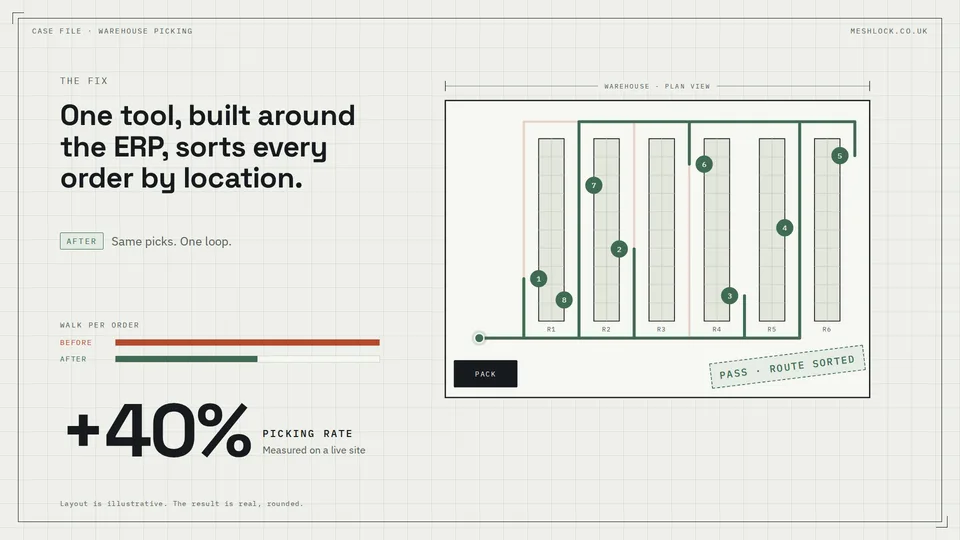
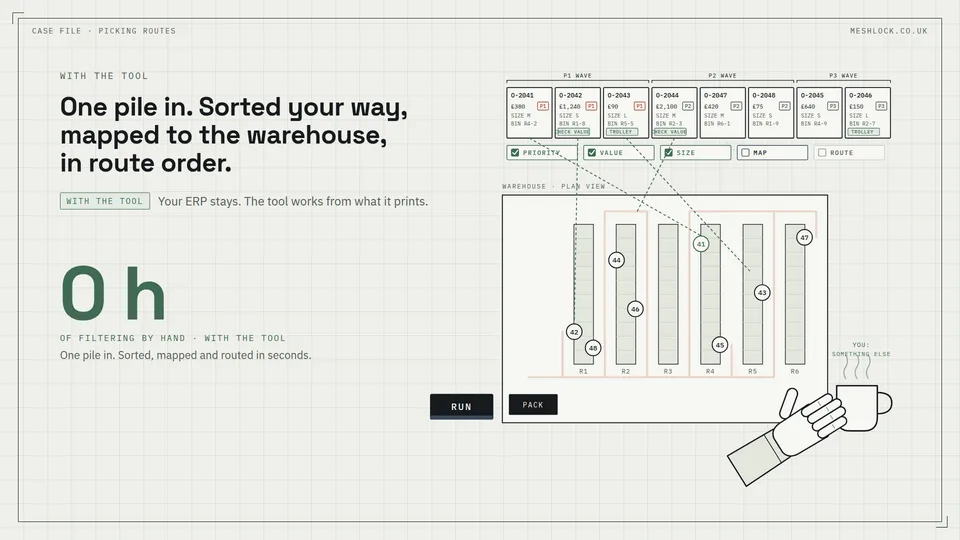
Five before/after animations on /tools, new tiles and thumbs, breadcrumbs and offer links on every page
Claude-Session: https://claude.ai/code/session_01HfdSBWSTx8RcmJzqoEAGrT

diff --git a/tools/index.html b/tools/index.html
@@ -5,12 +5,12 @@
 <meta name="viewport" content="width=device-width, initial-scale=1.0">
 <meta name="color-scheme" content="light">
 <title>Tools in action | Meshlock</title>
-<meta name="description" content="Four real fixes for manufacturers, shown as they run: job travellers, cut file checks, machine run data and picking routes. Built around the ERP you already have.">
+<meta name="description" content="Five real fixes for manufacturers, shown as they run: job orders, picking routes, cut file checks, machine data and batch export. Built around the ERP you already have.">
 <link rel="canonical" href="https://meshlock.co.uk/tools/">
 <meta property="og:type" content="website">
 <meta property="og:site_name" content="Meshlock">
 <meta property="og:title" content="Tools in action | Meshlock">
-<meta property="og:description" content="Four real fixes for manufacturers, shown as they run: job travellers, cut file checks, machine run data and picking routes. Built around the ERP you already have.">
+<meta property="og:description" content="Five real fixes for manufacturers, shown as they run: job orders, picking routes, cut file checks, machine data and batch export. Built around the ERP you already have.">
 <meta property="og:url" content="https://meshlock.co.uk/tools/">
 <meta property="og:image" content="https://meshlock.co.uk/assets/og-image.png?v=2">
 <meta property="og:image:width" content="1200">
@@ -41,9 +41,9 @@
 
 <section class="page-head">
   <div class="wrap">
-    <p class="label">Tools in action</p>
-    <h1>Four fixes, shown as they run.</h1>
-    <p>Each one is a real tool, built around an existing ERP and tested on real production data. Parts, orders and machines on screen are illustrative. The results are real, rounded.</p>
+    <p class="label crumbs"><a href="/">Meshlock</a> / Tools in action</p>
+    <h1>Five fixes, shown as they run.</h1>
+    <p>Each one is a real tool, built around an existing ERP and tested on real production data. First the job by hand, then the same job with the tool. Parts, orders and machines on screen are illustrative. The results are real, rounded.</p>
   </div>
 </section>
 
@@ -51,9 +51,9 @@
   <div class="wrap">
     <p class="label">Around your ERP</p>
     <h2>Built around your ERP, not instead of it.</h2>
-    <p class="erp-text">Works orders came off the ERP unsorted, with no carrier details and no picture of the part. Tools built around it now put despatch paperwork in exact picking order, keep multi-sheet orders together, stamp the right courier and print a preview of the correct part on every sheet. The ERP provider's own consultants couldn't match it.</p>
+    <p class="erp-text">Job orders and picking orders came off the ERP in one unsorted pile, with no courier and no picture of the part. Tools built around it now sort and group the job orders, stamp the courier, print a preview of the part and put picking orders in route order. The ERP provider's own consultants couldn't match it.</p>
     <div class="stats">
-      <div class="stat"><p class="stat-num">12 h</p><p>a week saved at peak, sorting despatch paperwork</p></div>
+      <div class="stat"><p class="stat-num">12 h</p><p>a week saved at peak, filtering and reprinting picking orders</p></div>
       <div class="stat"><p class="stat-num">5×</p><p>faster matching products to shipping slips</p></div>
       <div class="stat"><p class="stat-num">0</p><p>changes to your ERP. No new licences, nothing to break at upgrade time</p></div>
     </div>
@@ -63,61 +63,81 @@
 <section class="tool-case" id="job-travellers">
   <div class="wrap">
     <div class="tc-head">
-      <div><p class="label">Around the ERP</p><h2>Job travellers, sorted in a minute</h2></div>
+      <div><p class="label">Around the ERP</p><h2>Job orders, sorted in a minute</h2></div>
       <p class="tc-result">1 h → 1 min</p>
     </div>
-    <div class="tc-frame"><iframe src="/assets/anim/job-travellers.html?embed=1" title="Job travellers, animation" loading="lazy"></iframe><a class="tc-full" href="/assets/anim/job-travellers.html" target="_blank" rel="noopener">⤢ Full screen</a></div>
+    <div class="tc-frame"><iframe src="/assets/anim/job-travellers.html?embed=1" title="Job orders, animation" loading="lazy"></iframe><a class="tc-full" href="/assets/anim/job-travellers.html" target="_blank" rel="noopener">⤢ Full screen</a></div>
     <div class="tc-fields">
-      <div class="field"><b>Challenge</b><p>Job travellers came off the ERP as one long, unsorted print. Someone spent about an hour a day sorting multi-page orders by hand.</p></div>
-      <div class="field"><b>Approach</b><p>A tool that sorts sheets by priority and order, adds a separator with the sheet count, stamps the courier and prints a preview of the part from its cut code.</p></div>
+      <div class="field"><b>Challenge</b><p>About 80 sheets for 60 job orders came off the ERP as one mixed print. Someone spent about an hour a day sorting them, clipping multi-page orders together and writing on the courier.</p></div>
+      <div class="field"><b>Approach</b><p>A tool that sorts the sheets, groups multi-page orders, adds a separator with the sheet count, stamps the courier and prints a preview of the part. It also collects the order data and drafts a short message for the shift team with the day's priorities.</p></div>
       <div class="field"><b>Outcome</b><p>About an hour of daily sorting now takes about a minute.</p></div>
     </div>
     <p class="tc-price">A tool like this: <b>about £1,000</b>. Every quote is built around your own workflow. <a href="/prices/">How prices work →</a></p>
-  </div>
-</section>
-<section class="tool-case" id="dxf-check">
-  <div class="wrap">
-    <div class="tc-head">
-      <div><p class="label">Quality & error-proofing</p><h2>Pre-production quality gate</h2></div>
-      <p class="tc-result">Up to 10% of machine capacity freed</p>
-    </div>
-    <div class="tc-frame"><iframe src="/assets/anim/dxf-check.html?embed=1" title="Pre-production quality gate, animation" loading="lazy"></iframe><a class="tc-full" href="/assets/anim/dxf-check.html" target="_blank" rel="noopener">⤢ Full screen</a></div>
-    <div class="tc-fields">
-      <div class="field"><b>Challenge</b><p>Design files reached the floor with no automated check. Errors caught only after material and time were spent.</p></div>
-      <div class="field"><b>Approach</b><p>A digital check on every cut file before it reaches a machine: orientation, position on the bed, open contours, piece count against the paperwork, and a predicted cut time.</p></div>
-      <div class="field"><b>Outcome</b><p>Physical test-cutting eliminated for validated files. Defects caught at the design stage, not by a customer.</p></div>
-    </div>
-    <p class="tc-price">A tool like this: <b>about £1,700</b>. Every quote is built around your own workflow. <a href="/prices/">How prices work →</a></p>
-  </div>
-</section>
-<section class="tool-case" id="machine-data">
-  <div class="wrap">
-    <div class="tc-head">
-      <div><p class="label">Data & reporting</p><h2>Machine run data and the cut time model</h2></div>
-      <p class="tc-result">3 years of logs, now live data</p>
-    </div>
-    <div class="tc-frame"><iframe src="/assets/anim/machine-data.html?embed=1" title="Machine run data, animation" loading="lazy"></iframe><a class="tc-full" href="/assets/anim/machine-data.html" target="_blank" rel="noopener">⤢ Full screen</a></div>
-    <div class="tc-fields">
-      <div class="field"><b>Challenge</b><p>Machine logs held years of run data nobody could read. Time estimates relied on manual test-runs and rough averages.</p></div>
-      <div class="field"><b>Approach</b><p>Three years of raw machine logs cleaned and matched to jobs, with every start and stop tracked to the second. A predictive model built on that history estimates cut time for new designs.</p></div>
-      <div class="field"><b>Outcome</b><p>Every stop is visible and can be followed up. Faster, more consistent estimates feed straight into planning.</p></div>
-    </div>
-    <p class="tc-price">A tool like this: <b>about £3,150</b>. Every quote is built around your own workflow. <a href="/prices/">How prices work →</a></p>
+    <p class="tc-offer"><a href="/start/#f=sort,courier">Same pile on your desk? Put your numbers on it →</a></p>
   </div>
 </section>
 <section class="tool-case" id="picking-route">
   <div class="wrap">
     <div class="tc-head">
-      <div><p class="label">Around the ERP</p><h2>Smarter picking</h2></div>
+      <div><p class="label">Around the ERP</p><h2>Picking routes</h2></div>
       <p class="tc-result">+40% picking rate</p>
     </div>
-    <div class="tc-frame"><iframe src="/assets/anim/picking-route.html?embed=1" title="Smarter picking, animation" loading="lazy"></iframe><a class="tc-full" href="/assets/anim/picking-route.html" target="_blank" rel="noopener">⤢ Full screen</a></div>
+    <div class="tc-frame"><iframe src="/assets/anim/picking-route.html?embed=1" title="Picking routes, animation" loading="lazy"></iframe><a class="tc-full" href="/assets/anim/picking-route.html" target="_blank" rel="noopener">⤢ Full screen</a></div>
     <div class="tc-fields">
-      <div class="field"><b>Challenge</b><p>Pickers walked the warehouse in whatever order the paperwork came out.</p></div>
-      <div class="field"><b>Approach</b><p>A tool that maps efficient routes and sequences orders to match.</p></div>
-      <div class="field"><b>Outcome</b><p>Picking rate up by about 40%.</p></div>
+      <div class="field"><b>Challenge</b><p>The ERP printed picking orders as one pile, in print order, and pickers walked the warehouse back and forth. At peak, someone filtered and reprinted them by hand, aisle by aisle or by value: up to 12 hours a week.</p></div>
+      <div class="field"><b>Approach</b><p>One pile goes in. The tool sorts it the way you choose, by priority, value or size, maps every order to its location in the warehouse and puts them in route order. One loop instead of back and forth.</p></div>
+      <div class="field"><b>Outcome</b><p>Picking rate up by about 40%. The filtering and reprinting by hand stopped.</p></div>
     </div>
     <p class="tc-price">A tool like this: <b>about £2,250</b>. Every quote is built around your own workflow. <a href="/prices/">How prices work →</a></p>
+    <p class="tc-offer"><a href="/start/#f=pick">Pickers walking the long way? Put your numbers on it →</a></p>
+  </div>
+</section>
+<section class="tool-case" id="dxf-check">
+  <div class="wrap">
+    <div class="tc-head">
+      <div><p class="label">Quality & error-proofing</p><h2>Cut file check: a digital quality gate</h2></div>
+      <p class="tc-result">Up to 10% of machine capacity freed</p>
+    </div>
+    <div class="tc-frame"><iframe src="/assets/anim/dxf-check.html?embed=1" title="Cut file check, animation" loading="lazy"></iframe><a class="tc-full" href="/assets/anim/dxf-check.html" target="_blank" rel="noopener">⤢ Full screen</a></div>
+    <div class="tc-fields">
+      <div class="field"><b>Challenge</b><p>New designs went to the machine to find out if they were right. Test cut, count the parts by hand, find the error, bin the sheet, fix it, repeat. About an hour on every new design.</p></div>
+      <div class="field"><b>Approach</b><p>A digital quality gate, built from scratch. Every file is checked on screen before the first cut: orientation, position, gaps in cut paths, processing settings, part count against the paperwork and part ID. Each issue is marked on the drawing and fixed in the file before it reaches a machine.</p></div>
+      <div class="field"><b>Outcome</b><p>Errors caught on screen, not in the bin. About an hour saved on every new design, and up to 10% of machine capacity freed.</p></div>
+    </div>
+    <p class="tc-price">A tool like this: <b>about £1,700</b>. Every quote is built around your own workflow. <a href="/prices/">How prices work →</a></p>
+    <p class="tc-offer"><a href="/start/#f=wrong">Errors found after the cut? Put your numbers on it →</a></p>
+  </div>
+</section>
+<section class="tool-case" id="machine-data">
+  <div class="wrap">
+    <div class="tc-head">
+      <div><p class="label">Data & reporting</p><h2>Machine data: downtime you can see</h2></div>
+      <p class="tc-result">80% → 91%</p>
+    </div>
+    <div class="tc-frame"><iframe src="/assets/anim/machine-data.html?embed=1" title="Machine data, animation" loading="lazy"></iframe><a class="tc-full" href="/assets/anim/machine-data.html" target="_blank" rel="noopener">⤢ Full screen</a></div>
+    <div class="tc-fields">
+      <div class="field"><b>Challenge</b><p>The machines ran all day and nobody knew how well. Every stop was in the logs, but nobody could see it. Daily performance was a guess.</p></div>
+      <div class="field"><b>Approach</b><p>Machine logs pulled automatically, with every start and stop tracked to the second and shown per machine. With the downtime visible, the causes were found, the process changed and operators were trained on the real data.</p></div>
+      <div class="field"><b>Outcome</b><p>Average machine performance up from 80% on the first measured day to 91%. Same machines, same people.</p></div>
+    </div>
+    <p class="tc-price">A tool like this: <b>about £1,700</b>. Every quote is built around your own workflow. <a href="/prices/">How prices work →</a></p>
+    <p class="tc-offer"><a href="/start/#f=reports">Data in the system, but no clear picture? Put your numbers on it →</a></p>
+  </div>
+</section>
+<section class="tool-case" id="batch-export">
+  <div class="wrap">
+    <div class="tc-head">
+      <div><p class="label">Automation</p><h2>Batch export</h2></div>
+      <p class="tc-result">0 files opened by hand</p>
+    </div>
+    <div class="tc-frame"><iframe src="/assets/anim/batch-export.html?embed=1" title="Batch export, animation" loading="lazy"></iframe><a class="tc-full" href="/assets/anim/batch-export.html" target="_blank" rel="noopener">⤢ Full screen</a></div>
+    <div class="tc-fields">
+      <div class="field"><b>Challenge</b><p>Design files were opened and exported to PDF one at a time. Open, export, pick the preset, name it, save, close, next. One wrong click meant one bad PDF.</p></div>
+      <div class="field"><b>Approach</b><p>A small Adobe script. Pick the folders, set the preset once and press Run. Every file is exported with the same settings and listed in a log.</p></div>
+      <div class="field"><b>Outcome</b><p>Whole folders exported while you do something else. No skipped files, no wrong presets.</p></div>
+    </div>
+    <p class="tc-price">A tool like this: <b>about £500</b>. Every quote is built around your own workflow. <a href="/prices/">How prices work →</a></p>
+    <p class="tc-offer"><a href="/start/#f=export">Exporting files one by one? Put your numbers on it →</a></p>
   </div>
 </section>
 
@@ -150,8 +170,8 @@
 <section class="cta-band">
   <div class="wrap">
     <h2>Something on your floor that everyone just accepts?</h2>
-    <p>A free 30-minute call. Tell me what feels slow, and I'll tell you honestly whether a tool would fix it.</p>
-    <div class="ctas"><a class="btn-primary" href="/#contact">Book a free call</a><a class="btn-ghost" href="/prices/">See prices</a></div>
+    <p>A free 30-minute call. Tell me what feels slow, and I'll tell you honestly whether a tool would fix it. Or tick what happens on your floor and get a one-page offer in about 90 seconds.</p>
+    <div class="ctas"><a class="btn-primary" href="/#contact">Book a free call</a><a class="btn-ghost" href="/start/">Get a one-page offer</a></div>
   </div>
 </section>
 <script>
@@ -173,6 +193,7 @@
   <ul class="foot-links">
     <li><a href="/tools/">Tools in action</a></li>
     <li><a href="/prices/">Prices</a></li>
+    <li><a href="/start/">One-page offer</a></li>
     <li><a href="/notes/">Field notes</a></li>
     <li><a href="https://www.linkedin.com/in/kamil-pojawa-106265305/" target="_blank" rel="noopener">LinkedIn</a></li>
     <li><a href="mailto:hello@meshlock.co.uk">hello@meshlock.co.uk</a></li>

diff --git a/index.html b/index.html
@@ -570,26 +570,26 @@
       <div class="sec-head">
         <p class="label">Tools in action</p>
         <h2>See the fixes run</h2>
-        <p>Four real fixes, about 25 seconds each. Layouts are illustrative, the results are real.</p>
+        <p>Four real fixes, first by hand, then with the tool. About half a minute each. Layouts are illustrative, the results are real.</p>
       </div>
-      <a class="text-link" href="/tools/">All case files →</a>
+      <a class="text-link" href="/tools/">All five, with the details →</a>
     </div>
     <div class="tool-grid">
-      <a class="tool-tile watch" href="/assets/anim/picking-route.html" data-title="Smarter picking">
-        <img src="/assets/anim/thumbs/picking-route.webp" alt="" width="960" height="540" loading="lazy">
-        <span class="tt-body"><span class="tt-num">+40%</span><span class="tt-name">Picking rate, with orders sorted by location</span><span class="tt-play">▶ SEE IT RUN</span></span>
-      </a>
-      <a class="tool-tile watch" href="/assets/anim/job-travellers.html" data-title="Job travellers, sorted in a minute">
+      <a class="tool-tile watch" href="/assets/anim/job-travellers.html" data-title="Job orders, sorted in a minute">
         <img src="/assets/anim/thumbs/job-travellers.webp" alt="" width="960" height="540" loading="lazy">
-        <span class="tt-body"><span class="tt-num">1 h → 1 min</span><span class="tt-name">Daily job traveller sorting, split and stamped</span><span class="tt-play">▶ SEE IT RUN</span></span>
+        <span class="tt-body"><span class="tt-num">1 h → 1 min</span><span class="tt-name">Daily job order sorting, grouped and stamped</span><span class="tt-play">▶ SEE IT RUN</span></span>
       </a>
-      <a class="tool-tile watch" href="/assets/anim/dxf-check.html" data-title="Pre-production quality gate">
+      <a class="tool-tile watch" href="/assets/anim/picking-route.html" data-title="Picking routes">
+        <img src="/assets/anim/thumbs/picking-route.webp" alt="" width="960" height="540" loading="lazy">
+        <span class="tt-body"><span class="tt-num">+40%</span><span class="tt-name">Picking rate, with one pile sorted into route order</span><span class="tt-play">▶ SEE IT RUN</span></span>
+      </a>
+      <a class="tool-tile watch" href="/assets/anim/dxf-check.html" data-title="Cut file check">
         <img src="/assets/anim/thumbs/dxf-check.webp" alt="" width="960" height="540" loading="lazy">
-        <span class="tt-body"><span class="tt-num">Up to 10%</span><span class="tt-name">Machine capacity freed by checking every file first</span><span class="tt-play">▶ SEE IT RUN</span></span>
+        <span class="tt-body"><span class="tt-num">Up to 10%</span><span class="tt-name">Machine capacity freed by checking every file on screen</span><span class="tt-play">▶ SEE IT RUN</span></span>
       </a>
-      <a class="tool-tile watch" href="/assets/anim/machine-data.html" data-title="Machine run data and the cut time model">
+      <a class="tool-tile watch" href="/assets/anim/machine-data.html" data-title="Machine data: downtime you can see">
         <img src="/assets/anim/thumbs/machine-data.webp" alt="" width="960" height="540" loading="lazy">
-        <span class="tt-body"><span class="tt-num">3 years</span><span class="tt-name">Of raw machine logs turned into live run data</span><span class="tt-play">▶ SEE IT RUN</span></span>
+        <span class="tt-body"><span class="tt-num">80% → 91%</span><span class="tt-name">Average machine performance once the downtime was visible</span><span class="tt-play">▶ SEE IT RUN</span></span>
       </a>
     </div>
   </div>
@@ -725,6 +725,7 @@
   <ul class="foot-links">
     <li><a href="/tools/">Tools in action</a></li>
     <li><a href="/prices/">Prices</a></li>
+    <li><a href="/start/">One-page offer</a></li>
     <li><a href="/notes/">Field notes</a></li>
     <li><a href="https://www.linkedin.com/in/kamil-pojawa-106265305/" target="_blank" rel="noopener">LinkedIn</a></li>
     <li><a href="mailto:hello@meshlock.co.uk">hello@meshlock.co.uk</a></li>

diff --git a/prices/index.html b/prices/index.html
@@ -65,7 +65,7 @@
   <div class="wrap">
     <div class="prices-head">
       <div>
-        <p class="label">Prices</p>
+        <p class="label crumbs"><a href="/">Meshlock</a> / Prices</p>
         <h1>One fixed price. Built for your workflow.</h1>
       </div>
       <p class="side">Every quote is based on the work involved and how complex it is. You get one fixed price in writing, and it doesn't change.</p>
@@ -83,14 +83,15 @@
         <h3>What tools like these cost</h3>
         <p class="one-line">Real tools, most of them running on the <a href="/tools/">Tools</a> page.</p>
         <ul class="price-rows">
-          <li><span>Batch export in Adobe, folder by folder</span><span class="p">£500</span></li>
-          <li><span><a href="/tools/#job-travellers">Job travellers sorted, split and stamped</a></span><span class="p">£1,000</span></li>
+          <li><span><a href="/tools/#batch-export">Batch export in Adobe, folder by folder</a></span><span class="p">£500</span></li>
+          <li><span><a href="/tools/#job-travellers">Job orders sorted, split and stamped</a></span><span class="p">£1,000</span></li>
           <li><span><a href="/tools/#dxf-check">Quality gate before production</a></span><span class="p">£1,700</span></li>
-          <li><span>Live dashboard from your production data</span><span class="p">£1,700</span></li>
+          <li><span><a href="/tools/#machine-data">Live dashboard from your production data</a></span><span class="p">£1,700</span></li>
           <li><span><a href="/tools/#picking-route">Picking routes and order sequence</a></span><span class="p">£2,250</span></li>
-          <li><span><a href="/tools/#machine-data">Job-time model built on your production history</a></span><span class="p">£3,150</span></li>
+          <li><span>Job-time model built on your production history</span><span class="p">£3,150</span></li>
         </ul>
         <p class="ex-note">Every tool is built around your own process and data, so every quote is individual. These show where tools like these usually land.</p>
+        <p class="ex-note"><a href="/start/">Want a figure for your own problem? Tick it and get a one-page offer →</a></p>
       </div>
       <div class="price-card dark">
         <span class="price-tag">HOW YOU PAY</span>
@@ -175,6 +176,7 @@
   <ul class="foot-links">
     <li><a href="/tools/">Tools in action</a></li>
     <li><a href="/prices/">Prices</a></li>
+    <li><a href="/start/">One-page offer</a></li>
     <li><a href="/notes/">Field notes</a></li>
     <li><a href="https://www.linkedin.com/in/kamil-pojawa-106265305/" target="_blank" rel="noopener">LinkedIn</a></li>
     <li><a href="mailto:hello@meshlock.co.uk">hello@meshlock.co.uk</a></li>

diff --git a/notes/doing-it-by-hand.html b/notes/doing-it-by-hand.html
@@ -40,7 +40,7 @@
 
 <section class="article-header">
   <div class="wrap">
-    <p class="eyebrow">Field notes</p>
+    <p class="eyebrow crumbs"><a href="/">Meshlock</a> / <a href="/notes/">Field notes</a></p>
     <h1>Doing it by hand for years, until someone decided not to</h1>
     <div class="article-meta">
       <span>2026</span>
@@ -102,6 +102,7 @@
     <div class="article-footer">
       <p>If a step in your own process feels like it's always been done that way, it might be worth a second look.</p>
       <a class="nav-cta" href="/#contact">Book a free call</a>
+      <p><a href="/start/">Or tick what happens on your floor and get a one-page offer →</a></p>
     </div>
 
   </div>
@@ -115,6 +116,7 @@
   <ul class="foot-links">
     <li><a href="/tools/">Tools in action</a></li>
     <li><a href="/prices/">Prices</a></li>
+    <li><a href="/start/">One-page offer</a></li>
     <li><a href="/notes/">Field notes</a></li>
     <li><a href="https://www.linkedin.com/in/kamil-pojawa-106265305/" target="_blank" rel="noopener">LinkedIn</a></li>
     <li><a href="mailto:hello@meshlock.co.uk">hello@meshlock.co.uk</a></li>

diff --git a/notes/index.html b/notes/index.html
@@ -40,7 +40,7 @@
 
 <section class="notes-header">
   <div class="wrap">
-    <p class="eyebrow">Field notes</p>
+    <p class="eyebrow crumbs"><a href="/">Meshlock</a> / Field notes</p>
     <h1>What the floor actually taught me</h1>
     <p>Short write-ups on single fixes: the small, unglamorous gaps that turn out to matter more than the ones everyone already talks about. Generalised the same way as the case files: no company names, no identifying detail.</p>
   </div>
@@ -74,6 +74,7 @@
   <ul class="foot-links">
     <li><a href="/tools/">Tools in action</a></li>
     <li><a href="/prices/">Prices</a></li>
+    <li><a href="/start/">One-page offer</a></li>
     <li><a href="/notes/">Field notes</a></li>
     <li><a href="https://www.linkedin.com/in/kamil-pojawa-106265305/" target="_blank" rel="noopener">LinkedIn</a></li>
     <li><a href="mailto:hello@meshlock.co.uk">hello@meshlock.co.uk</a></li>

diff --git a/assets/notes.css b/assets/notes.css
@@ -162,3 +162,9 @@ footer .wordmark img{height:20px;}
 .thanks{padding:80px 0 110px;}
 .thanks h1{max-width:18ch; line-height:1.15;}
 .thanks-links{display:flex; align-items:center; flex-wrap:wrap; gap:18px 26px; margin-top:32px;}
+
+/* Breadcrumb on subpages: the first part links home */
+.crumbs a{color:inherit; text-decoration:underline; text-decoration-color:var(--line); text-underline-offset:4px;}
+.crumbs a:hover{color:var(--ink); text-decoration-color:var(--ink);}
+.article-footer .nav-cta + p{margin:18px 0 0; font-size:15px;}
+.article-footer .nav-cta + p a{color:var(--ink); text-decoration:underline; text-decoration-color:var(--line); text-underline-offset:4px;}

diff --git a/assets/site.css b/assets/site.css
@@ -163,3 +163,7 @@ h2{line-height:1.2;}
 .tc-price{margin:22px 0 0; padding-top:14px; border-top:1px dashed var(--line); font-size:15px; color:var(--ink-soft);}
 .tc-price b{font-family:'IBM Plex Mono',monospace; font-weight:500; font-size:14px; color:var(--amber-ink); letter-spacing:.02em;}
 .tc-price a{color:var(--ink);}
+
+.tc-offer{margin:10px 0 0; font-size:15px;}
+.tc-offer a{color:var(--ink); text-decoration:underline; text-decoration-color:var(--amber); text-decoration-thickness:2px; text-underline-offset:5px;}
+.tc-offer a:hover{text-decoration-color:var(--ink);}

diff --git a/thanks.html b/thanks.html
@@ -48,6 +48,7 @@
   <ul class="foot-links">
     <li><a href="/tools/">Tools in action</a></li>
     <li><a href="/prices/">Prices</a></li>
+    <li><a href="/start/">One-page offer</a></li>
     <li><a href="/notes/">Field notes</a></li>
     <li><a href="https://www.linkedin.com/in/kamil-pojawa-106265305/" target="_blank" rel="noopener">LinkedIn</a></li>
     <li><a href="mailto:hello@meshlock.co.uk">hello@meshlock.co.uk</a></li>

diff --git a/CLAUDE.md b/CLAUDE.md
@@ -14,7 +14,7 @@ Plain static HTML and CSS. No framework, no build step, no package.json. Keep it
 
 ```
 index.html                    Homepage (all CSS inline in <style>)
-tools/index.html              Tools in action: ERP intro with stats, four full-width live animations (Full screen button), more case files
+tools/index.html              Tools in action: ERP intro with stats, five full-width live animations (Full screen button), each with a price line and a link to the offer, more case files
 prices/index.html             How a price is set, example prices, how you pay, Always included, FAQ (FAQPage JSON-LD lives here)
 apple-touch-icon.png          180px icon
 sitemap.xml                   Sitemap for /, /tools/, /prices/, /notes/ and each article
@@ -29,11 +29,12 @@ assets/
   og-image.png                1200×630 link-preview image (gear lockup, "Lean, software and ERP. One person."). Pages link it as og-image.png?v=2; bump the number whenever the image changes so LinkedIn fetches the new one
   email/meshlock-signature.png  360×56 wordmark on white for the email signature (shown at 180×28). Linked from Gmail, so never rename or remove it
   anim/                       Case file animations (self-contained HTML, noindex)
-    picking-route.html        Smarter picking
-    dxf-check.html            Pre-production quality gate
-    job-travellers.html       Job traveller tool (ERP band)
-    machine-data.html         Machine run data and cut time model
-    thumbs/*.webp             960x540 still frames for the homepage tiles
+    job-travellers.html       Job orders (file name kept so old links work)
+    picking-route.html        Picking routes
+    dxf-check.html            Cut file check, a digital quality gate
+    machine-data.html         Machine data: downtime made visible, 80% to 91%
+    batch-export.html         Batch export (Adobe), on /tools/ only
+    thumbs/*.webp             960x540 still frames for the tiles
 notes/
   index.html                  Field Notes list
   doing-it-by-hand.html       First article
@@ -101,6 +102,9 @@ Visual identity: engineering drawing and inspection language. Grid paper, dimens
 - Inside a page, all motion comes from one `render(t)` function. With reduced motion the page shows one still frame of the result.
 - On-screen parts, orders, machine names and times are illustrative and say so in the footer line. Results shown must match the case file text.
 - Say "machine", never the specific machine type, in site copy and animations. Specific process words make the source easy to guess.
+- Every animation runs before and after: the job by hand (a drawn hand, a clock or counter), then the same job with the tool, then the result and the gear sting. Each works at 16:9 and 9:16.
+- Never write "despatch" or the old tool names in copy. Use "job orders" (not job travellers) and "picking routes". The cut time model stays out of public copy.
+- The homepage shows four tiles (job orders, picking routes, cut file check, machine data). Batch export lives on /tools/ only.
 
 ## One-page offer (/start/)
 
@@ -134,6 +138,8 @@ Page order in `index.html`:
 8. Footer
 
 Nav on every page: Tools in action · Prices · About (/#about) · Field notes, plus Book a call. Under 640px the links show short labels (`.nl-short`): Tools · Prices · About · Notes.
+
+Subpages open with a breadcrumb label (`.crumbs`: "Meshlock / Page") whose first part links home. Every subpage ends with a way forward: Book a free call and the one-page offer (/start/). The footer on every page links the offer.
 
 Pricing works by method, not a price list: each quote is based on the work involved and how complex it is, as one fixed price in writing. The site never shows a day rate or hourly rate. The example prices on /prices/ are the reference. Change them only when asked. Each case file on /tools/ shows the matching example price ("A tool like this: about £…"), so keep the two in line. The Sound familiar? fix list shows no prices, only one line under the list linking to /prices/.
 
